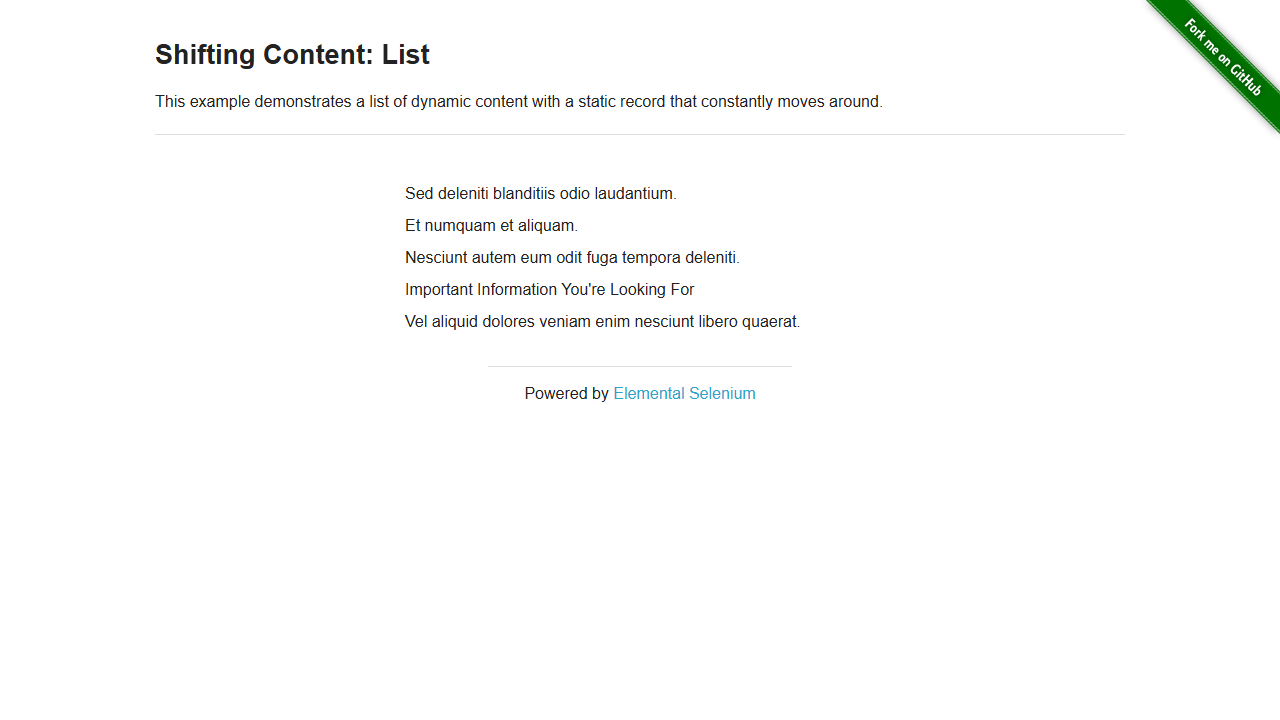
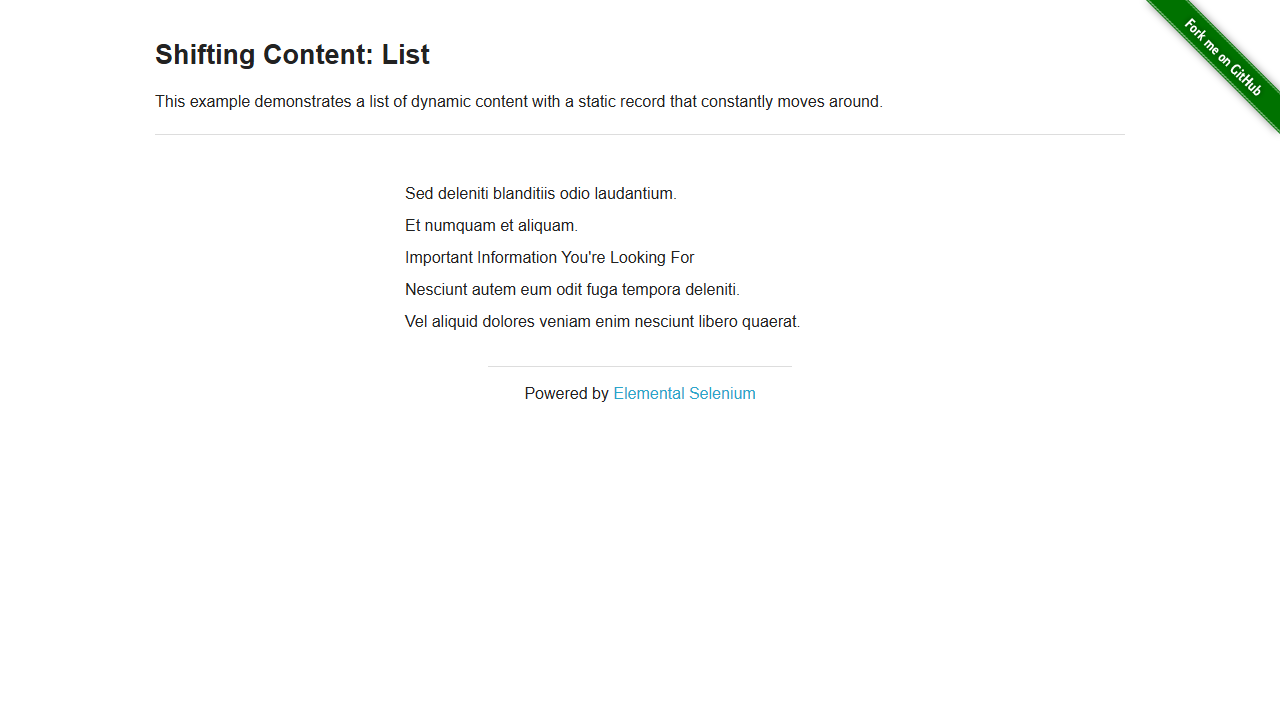
shifting list update

Changed region(s): [[0.3125, 0.3972, 0.5938, 0.4278], [0.3125, 0.3361, 0.5938, 0.3667]]

diff --git a/playwright-report/index.html b/playwright-report/index.html
@@ -73,4 +73,4 @@ Error generating stack: `+u.message+`
     <div id='root'></div>
   </body>
 </html>
[2 lines of base64/hex data omitted]

diff --git a/tests/the-internet.spec.ts b/tests/the-internet.spec.ts
@@ -546,18 +546,24 @@ test('shiftingList', async ({page}) => {
       const One = page.locator('.row').nth(2);
       const textOne = await One.innerText();
       console.log(textOne);
-  
-  //add loop where reload make new text into textTwo, compare with textOne, if different break, if the same continue
-  
-      await page.reload();
-  
-      const Two = page.locator('.row').nth(2);
-      const textTwo = await Two.innerText();
-      console.log(textTwo);
-  
-  //can just be an expect .not.toBe so that it passes when loop break
-  
-      expect(textOne).toBe(textTwo);
+
+    let match = false;
+    
+    for (let i=0; i<20; i++) {
+
+        await page.reload();
+
+        const Two = page.locator('.row').nth(2);
+        const textTwo = await Two.innerText();
+        console.log(textTwo);
+
+        if (textOne!=textTwo) {
+            match = true;
+            break;
+        }
+    }
+
+    expect(match).toBeTruthy();
   });
 
 //Exit Intent
